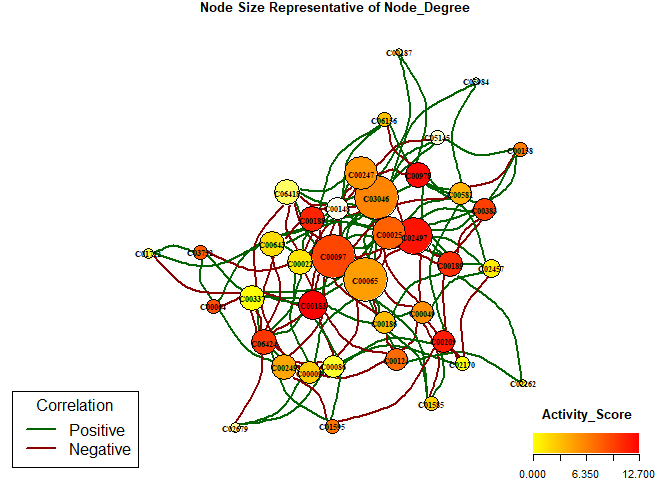
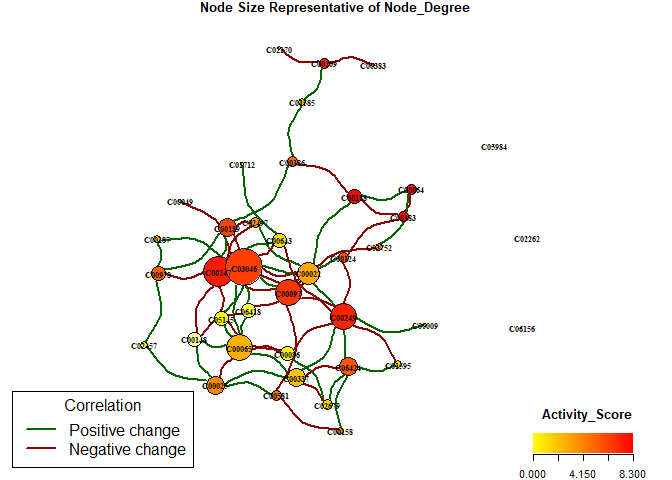
edit R/* codes and README file

diff --git a/README.md b/README.md
@@ -6,9 +6,9 @@ INDEED
 Overview
 --------
 
-This package implements INDEED algorithm from Zuo et. al.'s Methods paper, INDEED: Integrated differential expression and differential network analysis of omic data for biomarker discovery (PMID: 27592383).
+This package implements INDEED algorithm from Zuo et. al.'s Methods paper, INDEED: Integrated differential expression and differential network analysis of omic data for biomarker discovery ([PMID: 27592383](https://www.ncbi.nlm.nih.gov/pubmed/?term=27592383%5Buid%5D)).
 
-This R package will generate a list of dataframes containing information such as p-value, node degree and activity score for each biomolecule. A higher activity score indicates that the corresponding biomolecule has more neighbors connceted in the differential network and their p-values are more statistically significant. It will also generate a network display to aid users' biomarker selection.
+This R package will generate a list of dataframes containing information such as p-value, node degree and activity score for each biomolecule. A higher activity score indicates that the corresponding biomolecule has more neighbors connected in the differential network and their p-values are more statistically significant. It will also generate a network display to aid users' biomarker selection.
 
 Installation
 ------------
@@ -63,33 +63,33 @@ Met_name_GU[1:10]
 #>  [8] "C00097" "C00124" "C00148"
 ```
 
-An example of obtain sparse differential network using partial correlation.
+An example to obtain sparse differential network using partial correlation analysis.
 
 ``` r
 # Compute rho values to run graphical lasso
 pre_data <- select_rho_partial(data = Met_GU, class_label = Met_Group_GU, id = Met_name_GU, error_curve = "NO")
 # Choose optimal rho values to compute activity scores and build the differntial network
-result <- partial_cor(data_list = pre_data, rho_group1 = 'min', rho_group2 = "min", permutation = 1000, p_val = pvalue_M_GU, permutation_thres = 0.05)
+result <- partial_cor(data_list = pre_data, rho_group1 = 'min', rho_group2 = "min", permutation = 1000, p_val = pvalue_M_GU, permutation_thres = 0.025)
 ```
 
 ``` r
 # Show result 
 head(result$activity_score)
-#>   Node  MetID P_value Node_Degree Activity_Score
-#> 1   12 C00183   0.000           8           12.7
-#> 2   24 C00978   0.166           7           11.5
-#> 3   31 C02497   0.537          10           11.3
-#> 4   17 C00209   0.206           6           10.4
-#> 5   15 C00188   0.487           7            9.8
-#> 6   16 C00189   0.016           7            9.7
+#>   Node     ID P_value Node_Degree Activity_Score
+#> 1   15 C00188   0.487           4            8.3
+#> 2   12 C00183   0.000           3            8.2
+#> 3    5 C00064   0.015           3            7.7
+#> 4   18 C00247   0.889           8            7.3
+#> 5   19 C00249   0.686           7            7.0
+#> 6   17 C00209   0.206           3            6.7
 head(result$diff_network)
-#>      Node1 Node2 Binary     Weight
-#> [1,]     1     2      1 0.04463312
-#> [2,]     1     5      1 0.02480624
-#> [3,]     1     6      1 0.01702761
-#> [4,]     1    19      1 0.03594529
-#> [5,]     1    28      1 0.01295338
-#> [6,]     1    32      1 0.01303688
+#>      Node1 Node2 Binary      Weight
+#> [1,]     1    19      1  0.02642267
+#> [2,]     2     8     -1 -0.01844766
+#> [3,]     2    15      1  0.01564158
+#> [4,]     2    31      1  0.01174936
+#> [5,]     2    33     -1 -0.02943342
+#> [6,]     2    38     -1 -0.01018387
 # Show network
 network_display(result)
 ```
